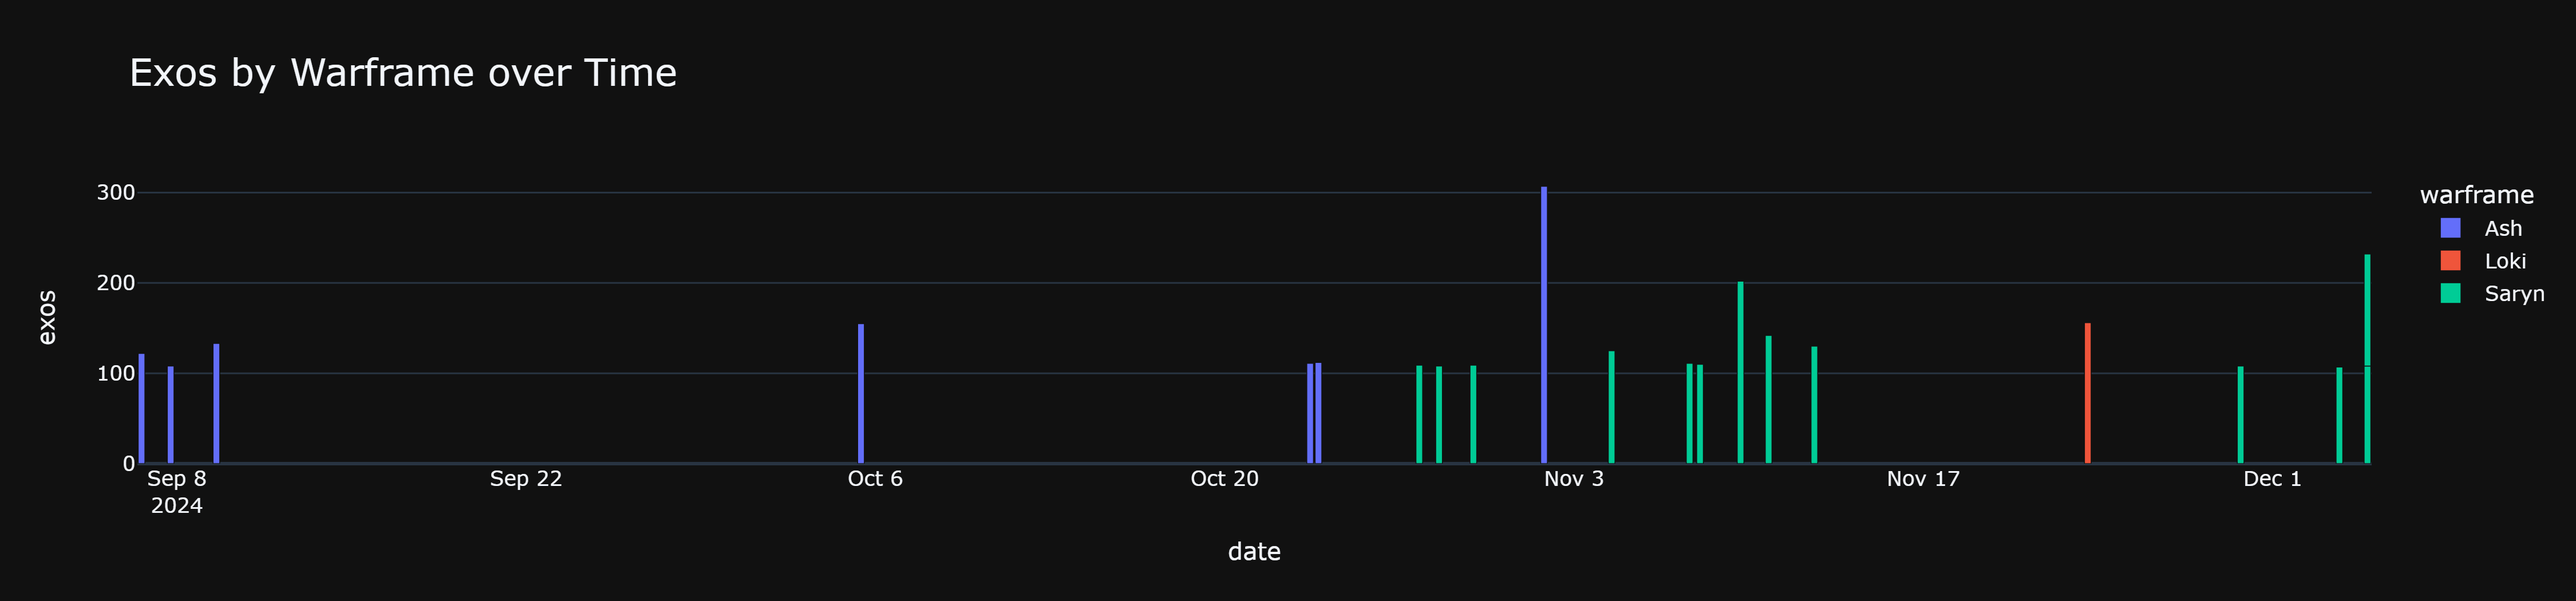
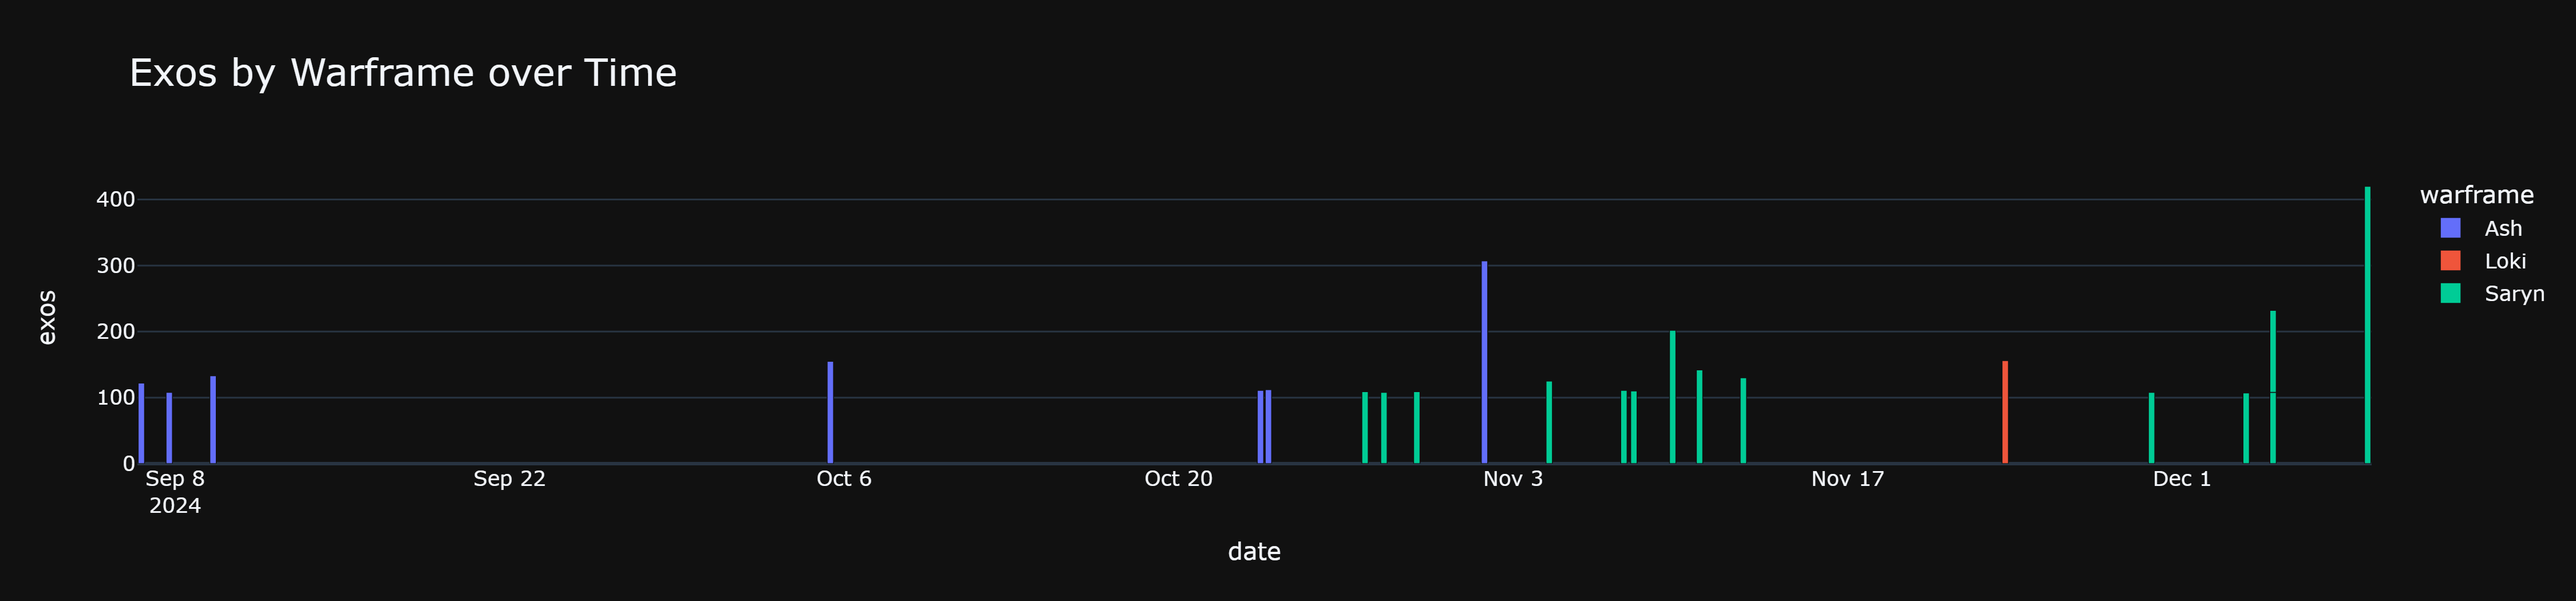
Update runs

diff --git a/README.md b/README.md
@@ -1,25 +1,25 @@
 # Warframe Cascade Run Analysis
 
 ## Total Exolisers
-- **2797** exolisers collected over **21** runs (~133 average).
+- **3217** exolisers collected over **22** runs (~146 average).
 
 ## Exos by Warframe
 | warframe   |   total_exos |   total_runs |   mean_exos_per_run |
 |:-----------|-------------:|-------------:|--------------------:|
-| Saryn      |         1593 |           13 |             122.538 |
+| Saryn      |         2013 |           14 |             143.786 |
 | Ash        |         1048 |            7 |             149.714 |
 | Loki       |          156 |            1 |             156     |
 
 ## Exos by Role
 | role   |   total_exos |
 |:-------|-------------:|
-| Atk    |         1640 |
+| Atk    |         2060 |
 | Def    |         1157 |
 
 ## Exos by Main Weapon
 | main_weapon   |   total_exos |
 |:--------------|-------------:|
-| Magistar      |         2304 |
+| Magistar      |         2724 |
 | Dualtoxo      |          230 |
 | Furis         |          156 |
 | Ocucor        |          107 |
@@ -30,4 +30,4 @@
 
 ---
 
-*Report generated on 2024-12-04 19:50:10*
+*Report generated on 2024-12-08 19:05:08*
